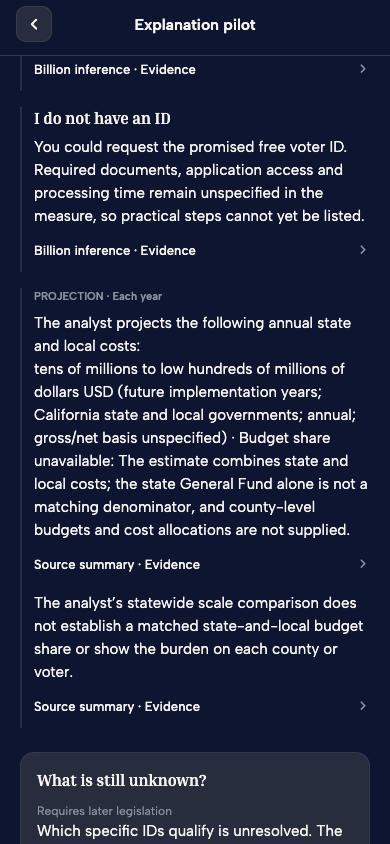
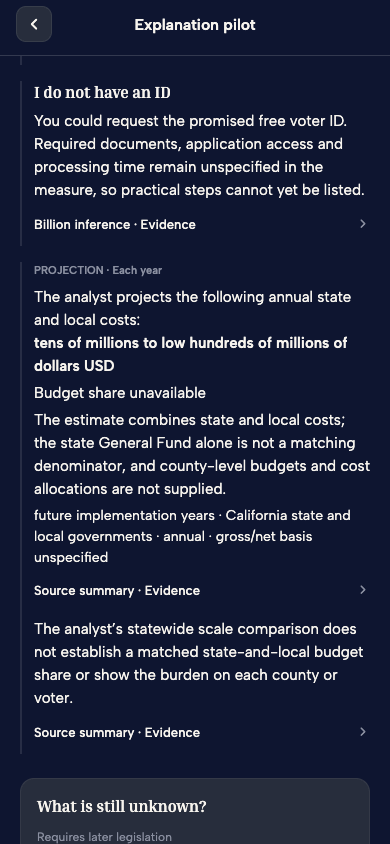
refactor(ballot): present money and budget shares in readable paired lines

diff --git a/packages/api/src/lib/budget-context.test.ts b/packages/api/src/lib/budget-context.test.ts
@@ -4,7 +4,9 @@ import test from "node:test";
 import {
   contextMoneyLabel,
   contextMoneyMentions,
+  contextMoneyPresentation,
   contextMoneySchema,
+  hasUncoveredContextMoney,
 } from "@acme/validators";
 
 const scope = {
@@ -36,7 +38,7 @@ void test("budget shares derive from monetary ranges and disclose denominator an
   assert.match(label, /\$5–15 billion USD · 2–6%/);
   assert.match(
     label,
-    /\$250 billion USD; 2027–28; California; annual; gross basis; illustrative/,
+    /\$250 billion USD\) · 2027–28 · California · annual · gross basis · illustrative/,
   );
   const changed = structuredClone(value);
   changed.comparison.denominator.amount = 500_000_000_000;
@@ -207,4 +209,86 @@ void test("decimal billion values agree with exact dollar numerators at cent pre
       true,
     );
   }
+});
+
+void test("bounds and approximation qualifiers remain nominal and cannot become exact shares", () => {
+  for (const qualifier of [
+    "up to",
+    "at least",
+    "less than",
+    "about",
+    "roughly",
+    "more than",
+  ]) {
+    const nominal = `${qualifier} $10 million`;
+    assert.deepEqual(contextMoneyMentions(nominal), [nominal]);
+    assert.equal(
+      hasUncoveredContextMoney(nominal, [{ nominal: "$10 million" }]),
+      true,
+    );
+    assert.equal(
+      contextMoneySchema.safeParse({
+        ...value,
+        nominal,
+        comparison: {
+          ...value.comparison,
+          numerator: { min: 10_000_000, max: 10_000_000 },
+        },
+      }).success,
+      false,
+    );
+    const parsed = contextMoneySchema.parse({
+      ...value,
+      nominal,
+      comparison: {
+        state: "unavailable",
+        reason: "No exact, matched budget share established.",
+      },
+    });
+    assert.equal(contextMoneyPresentation(parsed).nominal, `${nominal} USD`);
+  }
+  for (const nominal of [
+    "50 cents",
+    "half a billion dollars",
+    "several billion dollars",
+  ]) {
+    assert.deepEqual(contextMoneyMentions(nominal), [nominal]);
+    assert.equal(hasUncoveredContextMoney(nominal, []), true);
+    assert.equal(
+      contextMoneySchema.safeParse({
+        ...value,
+        nominal,
+        comparison: { state: "unavailable", reason: "No matched budget" },
+      }).success,
+      true,
+    );
+  }
+});
+void test("structured presentation retains amount, computed share, scope and unavailable reason", () => {
+  const parts = contextMoneyPresentation(contextMoneySchema.parse(value));
+  assert.equal(parts.nominal, "$5–15 billion USD");
+  assert.match(parts.comparison, /2–6%/);
+  assert.match(
+    parts.scope,
+    /2027–28 · California · annual · gross basis · illustrative/,
+  );
+  assert.equal(
+    contextMoneyLabel(contextMoneySchema.parse(value)),
+    [parts.nominal, parts.comparison, parts.scope].join(" · "),
+  );
+});
+
+void test("unknown accounting bases cannot be treated as verified matching scopes", () => {
+  const unknown = { ...scope, accounting: "unspecified" };
+  assert.equal(
+    contextMoneySchema.safeParse({
+      ...value,
+      scope: unknown,
+      comparison: {
+        ...value.comparison,
+        denominator: { ...value.comparison.denominator, scope: unknown },
+      },
+    }).success,
+    false,
+  );
 });

diff --git a/apps/expo/src/components/ballot-evidence/PropositionContext.tsx b/apps/expo/src/components/ballot-evidence/PropositionContext.tsx
@@ -3,7 +3,7 @@ import { useState } from "react";
 import { Linking, Pressable, StyleSheet, View } from "react-native";
 
 import type { ContextClaim, PublicPropositionContext } from "@acme/validators";
-import { contextMoneyLabel } from "@acme/validators";
+import { contextMoneyPresentation } from "@acme/validators";
 
 import { Icon } from "~/components/ui";
 import { fontBody, fontEditorial, hair, DigestPalette as P } from "~/styles";
@@ -181,12 +181,20 @@ export function PropositionContext({
 function MoneyContext({ value }: { value: ContextClaim }) {
   if (!value.money?.length) return null;
   return (
-    <View style={{ gap: 8 }}>
-      {value.money.map((item, i) => (
-        <Text key={i} style={s.body}>
-          {contextMoneyLabel(item)}
-        </Text>
-      ))}
+    <View style={{ gap: 12 }}>
+      {value.money.map((item, i) => {
+        const parts = contextMoneyPresentation(item);
+        return (
+          <View key={i} style={s.money}>
+            <Text style={[s.body, { fontFamily: fontBody.semibold }]}>
+              {parts.nominal}
+            </Text>
+            <Text style={s.body}>{parts.comparison}</Text>
+            {parts.reason && <Text style={s.body}>{parts.reason}</Text>}
+            <Text style={s.moneyScope}>{parts.scope}</Text>
+          </View>
+        );
+      })}
     </View>
   );
 }
@@ -369,6 +377,13 @@ const s = StyleSheet.create({
     fontFamily: fontEditorial.regular,
     fontSize: 20,
     lineHeight: 29,
+    color: P.inkOnNight,
+  },
+  money: { gap: 4 },
+  moneyScope: {
+    fontFamily: fontBody.regular,
+    fontSize: 14,
+    lineHeight: 21,
     color: P.inkOnNight,
   },
   body: {

diff --git a/docs/evidence/444/README.md b/docs/evidence/444/README.md
@@ -121,3 +121,9 @@ Screenshots `prop*-money-*.png` show these running development records on phone
 web. The new source-backed content remains pending editorial review. Shared tests
 cover ratio calculations, ranges, currency, mismatched scope, unavailable labels,
 population-count detection, uncovered claims and denominator review invalidation.
+
+Monetary qualifiers such as “less than” and “about” remain part of the nominal
+amount. These cannot become exact numeric shares; absent a supported matched
+comparison they use the explicit unavailable path. Available shares require a
+known gross/net basis. The shared presentation helper returns separate amount,
+comparison, scope and reason lines so both readers use the same calculation.

diff --git a/docs/measure-enrichment.md b/docs/measure-enrichment.md
@@ -179,3 +179,9 @@ references; editors must assess whether each source actually supports the claim.
 For UI review, open `/proposition-context-preview` in a development Expo build.
 It renders labelled public projections of the same records and separate missing,
 stale and error scenarios. Release builds cannot select those pilots.
+
+Monetary qualifiers such as “less than” and “about” remain part of the nominal
+amount. These cannot become exact numeric shares; absent a supported matched
+comparison they use the explicit unavailable path. Available shares require a
+known gross/net basis. The shared presentation helper returns separate amount,
+comparison, scope and reason lines so both readers use the same calculation.
